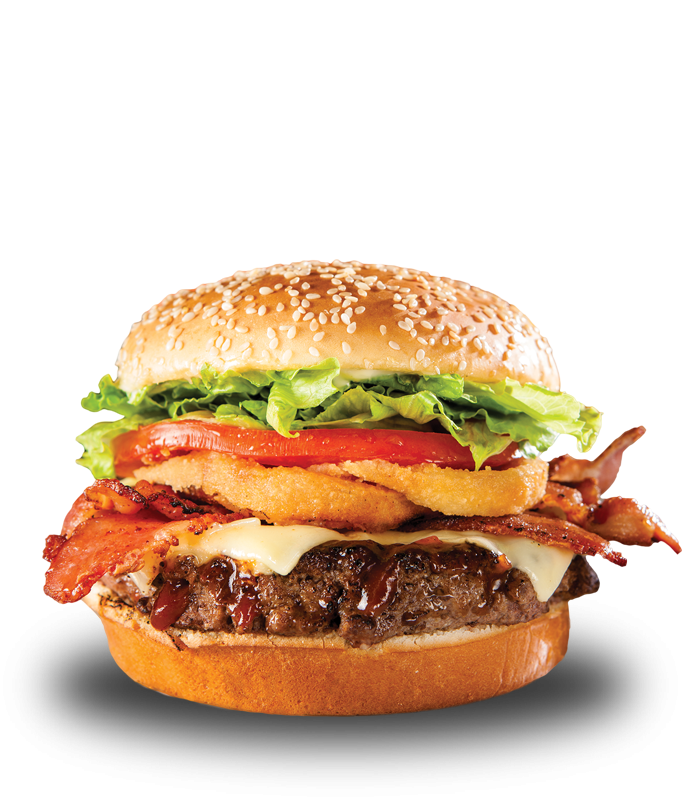
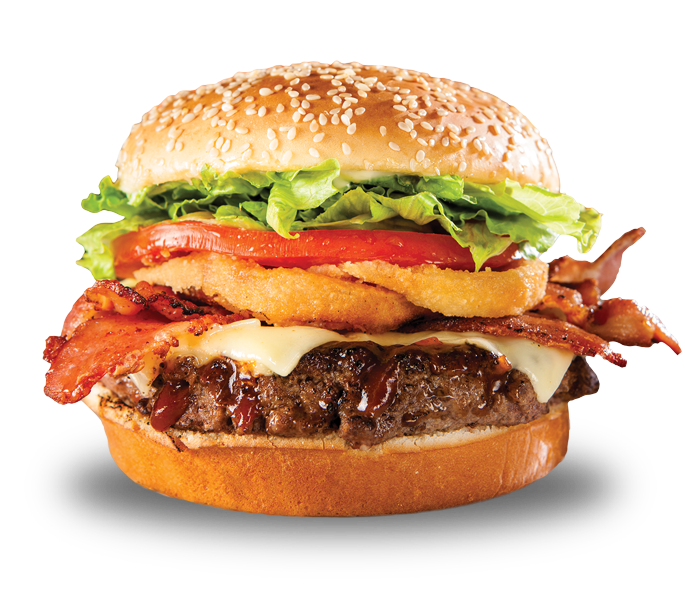
task05

diff --git a/home.html b/home.html
@@ -52,7 +52,7 @@
                         Ver Cardápio
 
                     </a>
-                    <a href="id=phone_btn">
+                    <a href=""id=phone_btn>
                         <button class="btn-padrao">
                             <i class="fa-solid fa-phone"></i>
                         </button>
@@ -72,11 +72,40 @@
                 </div>
             </div>
             <div class="banner">
-                <img src="Imagens/pngwing.com.png" alt="">
+                <img src="Imagens/pngwing.com (10).png" alt="">
             </div>
         </section>
         
         <section id="cardapio">
+            <h2 class="section-title">Cardápio</h2>
+            <h3 class="section-subtitle">Nossos pratos especiais.</h3>
+
+            <div class="area-cards">
+                <div class="card">
+                    <div class="card-heart">
+                        <i class="fa-solid fa-heart"></i>
+                    </div>
+                    <img src="Imagens/pngwing.com (11).png" alt="" class="card-image">
+                    <h3 class="card-title">X-BURGUER 143</h3>
+                    <spa class="card-descricao">
+                        X Burguer 143: o sabor que te conquista na primeira mordida!
+                    </spa>
+                    <div class="card-rate">
+                        <i class="fa-regular fa-star"></i>
+                        <i class="fa-regular fa-star"></i>
+                        <i class="fa-regular fa-star"></i>
+                        <i class="fa-regular fa-star"></i>
+                        <i class="fa-regular fa-star"></i>
+                        <span>(500+)</span>
+                    </div>
+                    <div class="card-price">
+                        <h4>R$20,00</h4>
+                        <button class="btn-padrao">
+                            <i class="fa-solid fa-basket-shopping"></i>
+                        </button>
+                    </div>
+                </div>
+            </div>
         </section>
 
         <section id="depoimentos">

diff --git a/Styles/cardapio.css b/Styles/cardapio.css
@@ -1,0 +1,45 @@
+#cardapio{
+    display: flex;
+    flex-direction: column;
+    align-items: center;
+    justify-content: center;
+    min-height: 100vh;
+}
+.area-cards{
+    width: 100%;
+    display: flex;
+    flex-wrap: wrap;
+    justify-content: center;
+    gap: 24px;
+    margin-top: 32px;    
+}
+.card{
+    display: flex;
+    flex-direction: column;
+    align-items: center;
+    background-color: var(--color-primary-4);
+    border-radius: 20px;
+    gap: 18px;
+    padding: 20px;
+    box-shadow: 0px 0px 12px 4px rgba (0,0,0,0.1);
+    position: relative;
+    width: 30%;
+}
+.card-image{
+    width: 60%;
+
+}
+.card-heart{
+    position: absolute;
+    background-color: var(--color-primary-6);
+    display: flex;
+    align-items: center;
+    justify-content: center;
+    font-size: 1.563rem;
+    color: var(--color-primary-1);
+    width: 70px;
+    height: 70px;
+    right: -10px;
+    top: -10px;
+    border-radius: 0px 37.5px 0px 42.5px;
+}

diff --git a/Styles/home.css b/Styles/home.css
@@ -1,14 +1,16 @@
-.home{
+#home{
     display: flex;
     min-height:_calc(100vh - 91px);
     position: relative;
+    justify-content: space-between;
+    /* background-color: blueviolet; */
 }
 .cta{
     width: 35%;
     display: flex;
     flex-direction: column;
     gap: 28px;
-    margin-top: 5%;
+    /* margin-top: 5%; */
 }
 .title{
     font-size: 4rem;
@@ -37,4 +39,27 @@ title span{
     font-weight: 500;
     border-radius: 12px;
     box-shadow: 0px 0px 12px 4px rgba(0, 0, 0, 0.1);
+}
+.banner{
+    display: flex;
+    width: 50%;
+    height: 100%;
+    z-index: 2;
+    align-items: center;
+    /* background-color: aqua; */
+    /* justify-content: left; */
+}
+.banner img{
+    height: 500px;
+
+}
+.shape{
+    background-color: var(--color-primary-3);
+    height: 100%;
+    width: 50%;
+    position: absolute;
+    border-radius: 80% 30% 60% 40%;
+    top: 0;
+    right: 0;
+    z-index: 1;
 }

diff --git a/Styles/style.css b/Styles/style.css
@@ -2,6 +2,7 @@
 
 @import url('menu.css');
 @import url('home.css');
+@import url('cardapio.css');
 
 :root{
     --color-primary-1:#fff9ea;
@@ -44,4 +45,25 @@ a{
 }
 .btn-padrao:hover{
     background-color: var(--color-primary-3);
+}
+.social-media-buttons{
+    display: flex;
+    gap: 18px;
+
+}
+.social-media-buttons a{
+    display: flex;
+    align-items: center;
+    justify-content: center;
+    width: 45px;
+    height: 40px;
+    background-color: var(--color-neutra-0);
+    font-size: 1.2rem;
+    border-radius: 10px;
+    color: var(--color-neutra-1);
+    box-shadow: 0px 0px 12px 4px rgba(0, 0, 0, 0.1) ;
+    transition: box-shadow 0.3 ease;
+}
+.social-media-buttons a:hover{
+    box-shadow: 0px 0px 12px 4px rgba(221, 160, 5, 0.7);
 }
